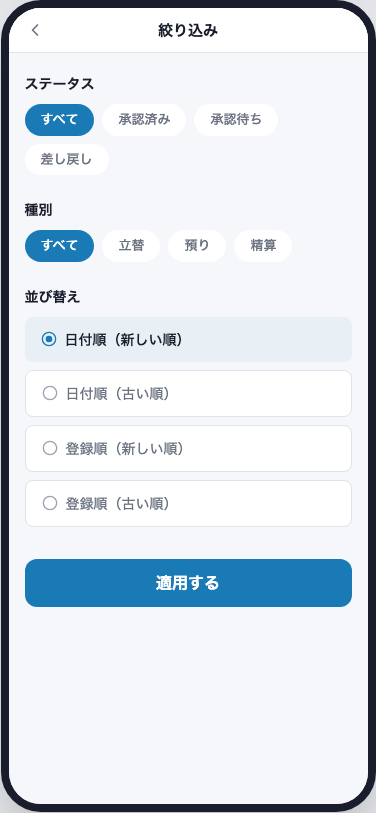
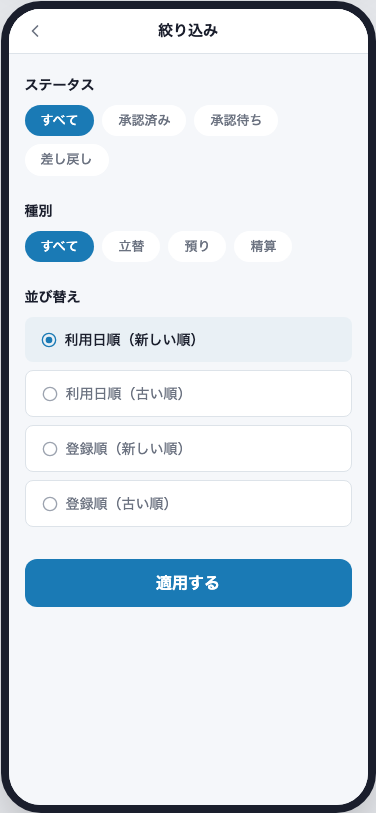
フィルターアイコンを横線パターンに変更、ソート表現を「利用日順」「登録順」に修正

diff --git a/docs/v0_design/mockups.html b/docs/v0_design/mockups.html
@@ -640,7 +640,7 @@ tailwind.config = {
       <div style="display: flex; align-items: center; gap: 6px; overflow-x: auto;">
         <!-- Filter icon (opens modal for detailed filters) -->
         <button style="display: flex; align-items: center; justify-content: center; width: 32px; height: 32px; border-radius: 8px; border: 1px solid #dde3e9; background: white; cursor: pointer; flex-shrink: 0;">
-          <svg width="16" height="16" viewBox="0 0 24 24" fill="none" stroke="#6b7280" stroke-width="2" stroke-linecap="round" stroke-linejoin="round"><polygon points="22 3 2 3 10 12.46 10 19 14 21 14 12.46 22 3"/></svg>
+          <svg width="16" height="16" viewBox="0 0 24 24" fill="none" stroke="#6b7280" stroke-width="2" stroke-linecap="round" stroke-linejoin="round"><line x1="4" y1="6" x2="20" y2="6"/><line x1="6" y1="12" x2="18" y2="12"/><line x1="9" y1="18" x2="15" y2="18"/></svg>
         </button>
         <!-- Status pills (always visible) -->
         <span class="filter-pill filter-pill-active" style="font-size: 12px; padding: 4px 12px;">すべて</span>
@@ -651,7 +651,7 @@ tailwind.config = {
       <!-- Sort control -->
       <div style="display: flex; align-items: center; gap: 4px; padding: 2px 0;">
         <svg width="12" height="12" viewBox="0 0 24 24" fill="none" stroke="#6b7280" stroke-width="2" stroke-linecap="round" stroke-linejoin="round"><path d="m3 16 4 4 4-4"/><path d="M7 20V4"/><path d="m21 8-4-4-4 4"/><path d="M17 4v16"/></svg>
-        <span style="font-size: 12px; font-weight: 500; color: #1a7ab5; cursor: pointer;">日付順（新しい順）</span>
+        <span style="font-size: 12px; font-weight: 500; color: #1a7ab5; cursor: pointer;">利用日順（新しい順）</span>
         <svg width="10" height="10" viewBox="0 0 24 24" fill="none" stroke="#1a7ab5" stroke-width="2.5" stroke-linecap="round" stroke-linejoin="round"><path d="m6 9 6 6 6-6"/></svg>
       </div>
     </div>
@@ -791,11 +791,11 @@ tailwind.config = {
         <div style="display: flex; flex-direction: column; gap: 8px;">
           <div style="display: flex; align-items: center; gap: 8px; background: #e9f0f5; border-radius: 8px; padding: 12px 16px;">
             <svg width="16" height="16" viewBox="0 0 24 24" fill="none" stroke="#1a7ab5" stroke-width="2" stroke-linecap="round" stroke-linejoin="round"><circle cx="12" cy="12" r="10"/><circle cx="12" cy="12" r="4" fill="#1a7ab5"/></svg>
-            <span style="font-size: 14px; font-weight: 500; color: #1a1e2c;">日付順（新しい順）</span>
+            <span style="font-size: 14px; font-weight: 500; color: #1a1e2c;">利用日順（新しい順）</span>
           </div>
           <div style="display: flex; align-items: center; gap: 8px; background: white; border-radius: 8px; padding: 12px 16px; border: 1px solid #dde3e9;">
             <svg width="16" height="16" viewBox="0 0 24 24" fill="none" stroke="#9ca3af" stroke-width="2" stroke-linecap="round" stroke-linejoin="round"><circle cx="12" cy="12" r="10"/></svg>
-            <span style="font-size: 14px; color: #6b7280;">日付順（古い順）</span>
+            <span style="font-size: 14px; color: #6b7280;">利用日順（古い順）</span>
           </div>
           <div style="display: flex; align-items: center; gap: 8px; background: white; border-radius: 8px; padding: 12px 16px; border: 1px solid #dde3e9;">
             <svg width="16" height="16" viewBox="0 0 24 24" fill="none" stroke="#9ca3af" stroke-width="2" stroke-linecap="round" stroke-linejoin="round"><circle cx="12" cy="12" r="10"/></svg>

diff --git a/docs/v0_design/screens/timeline-screen.tsx b/docs/v0_design/screens/timeline-screen.tsx
@@ -22,7 +22,7 @@ interface TimelineScreenProps {
 }
 
 const sortLabels: Record<SortKey, Record<SortOrder, string>> = {
-  occurredOn: { desc: "日付順（新しい順）", asc: "日付順（古い順）" },
+  occurredOn: { desc: "利用日順（新しい順）", asc: "利用日順（古い順）" },
   createdAt: { desc: "登録順（新しい順）", asc: "登録順（古い順）" },
 }
 
